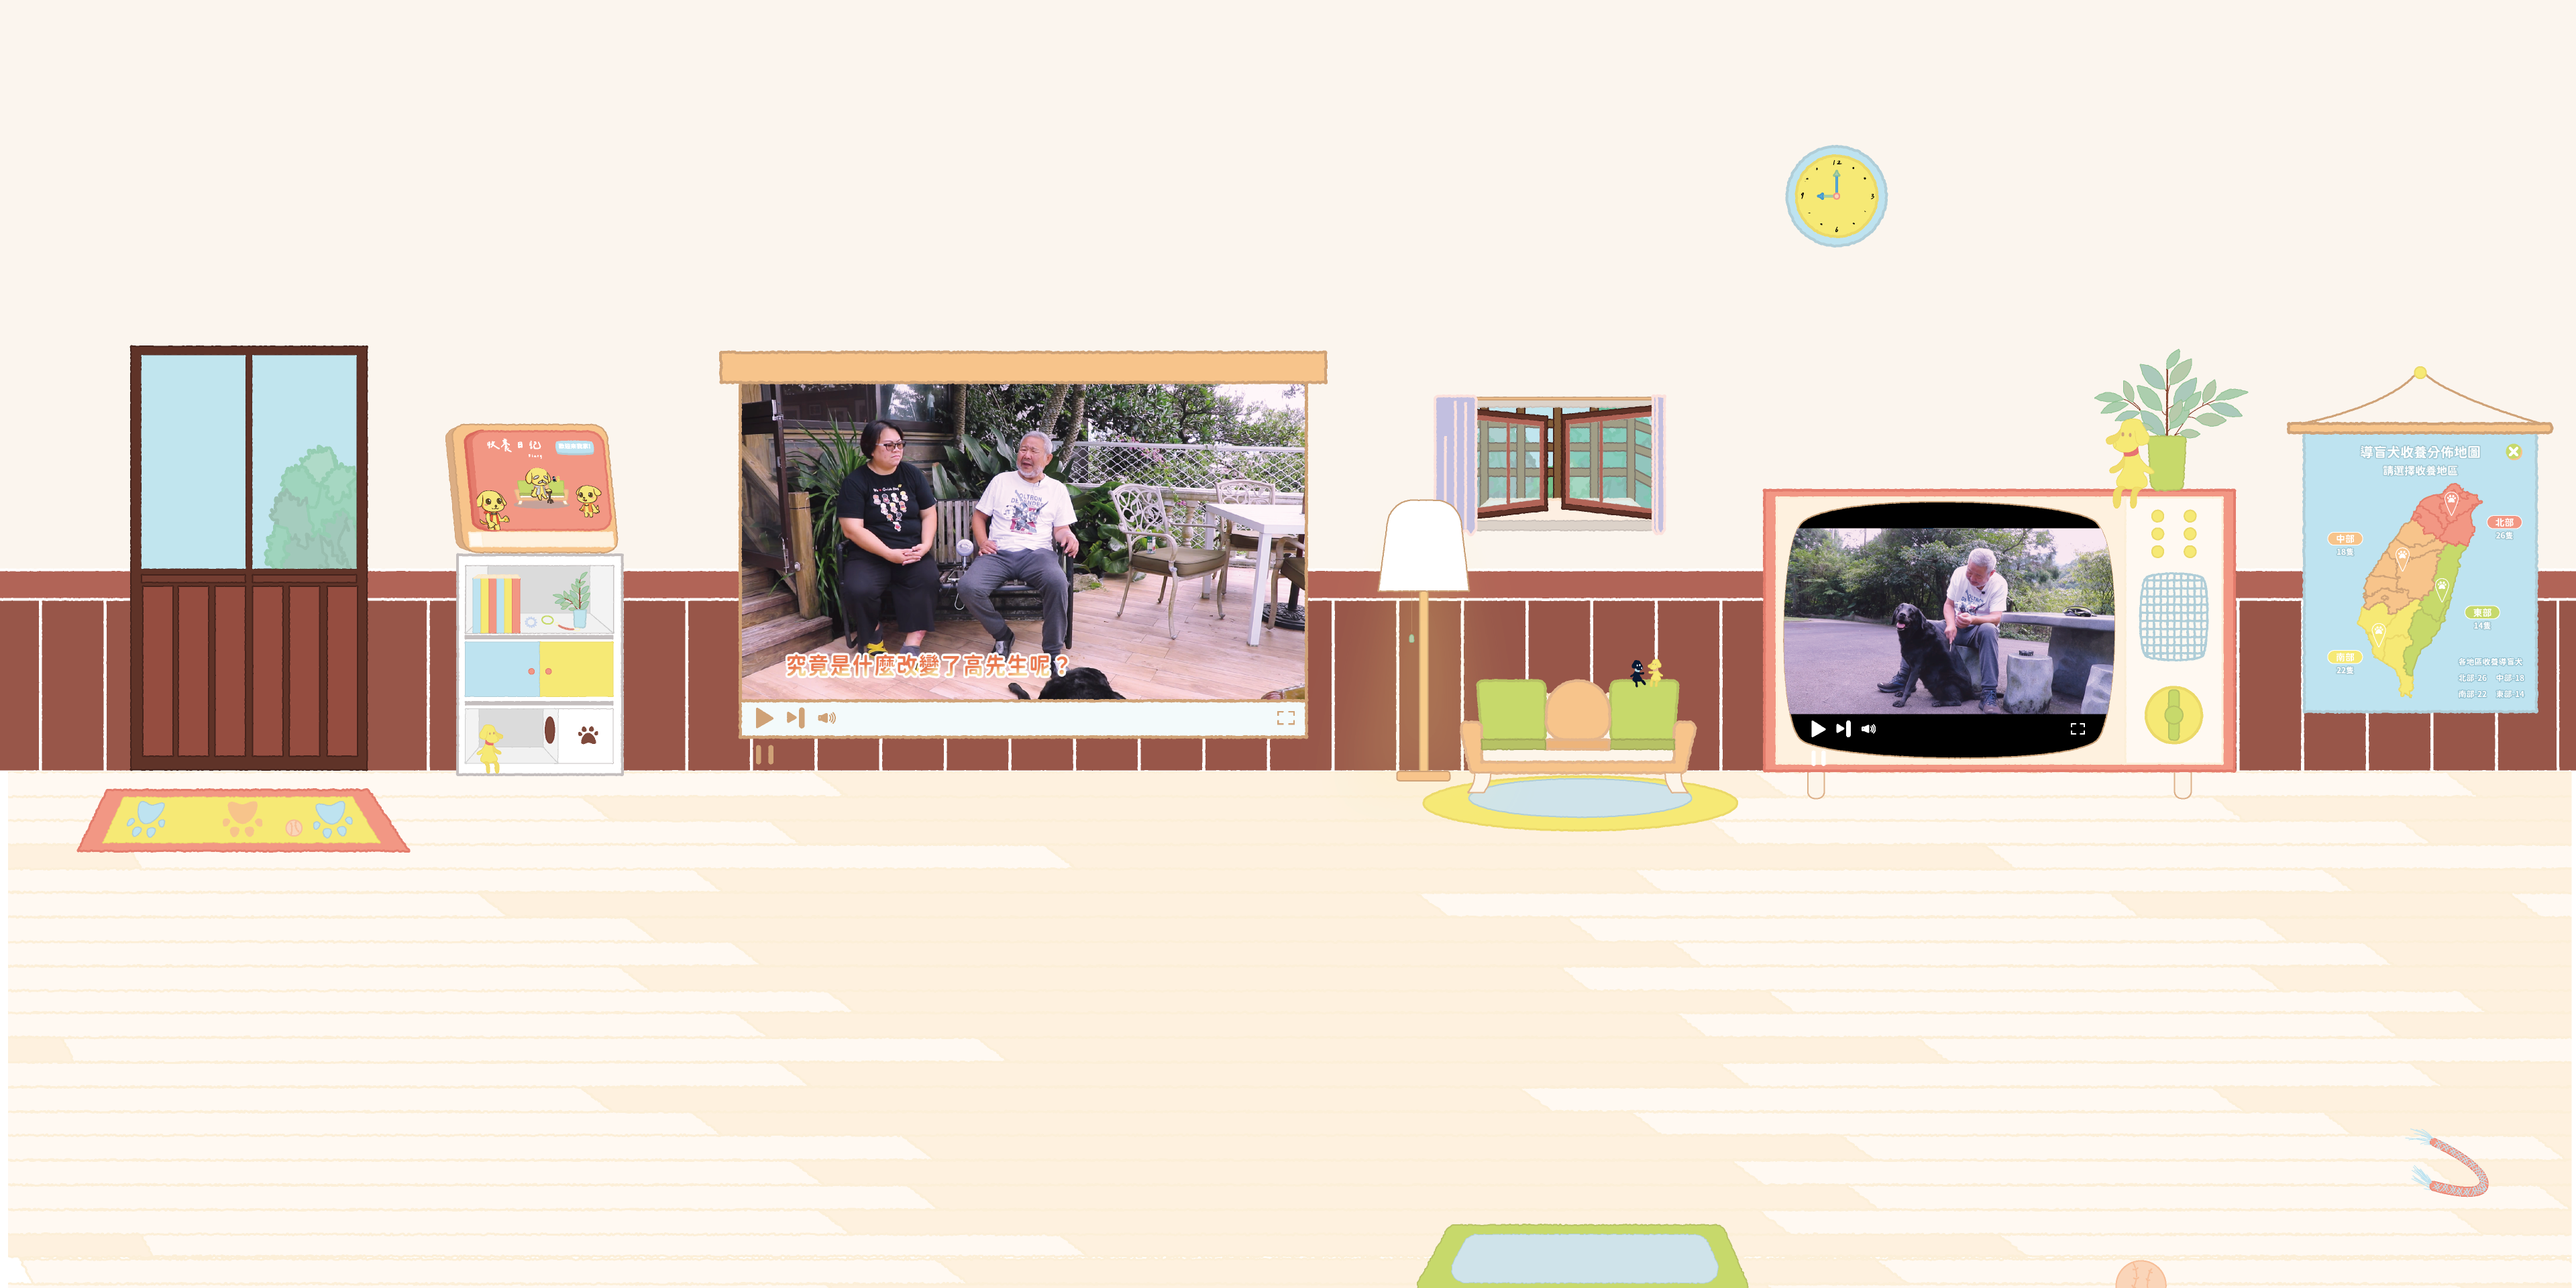
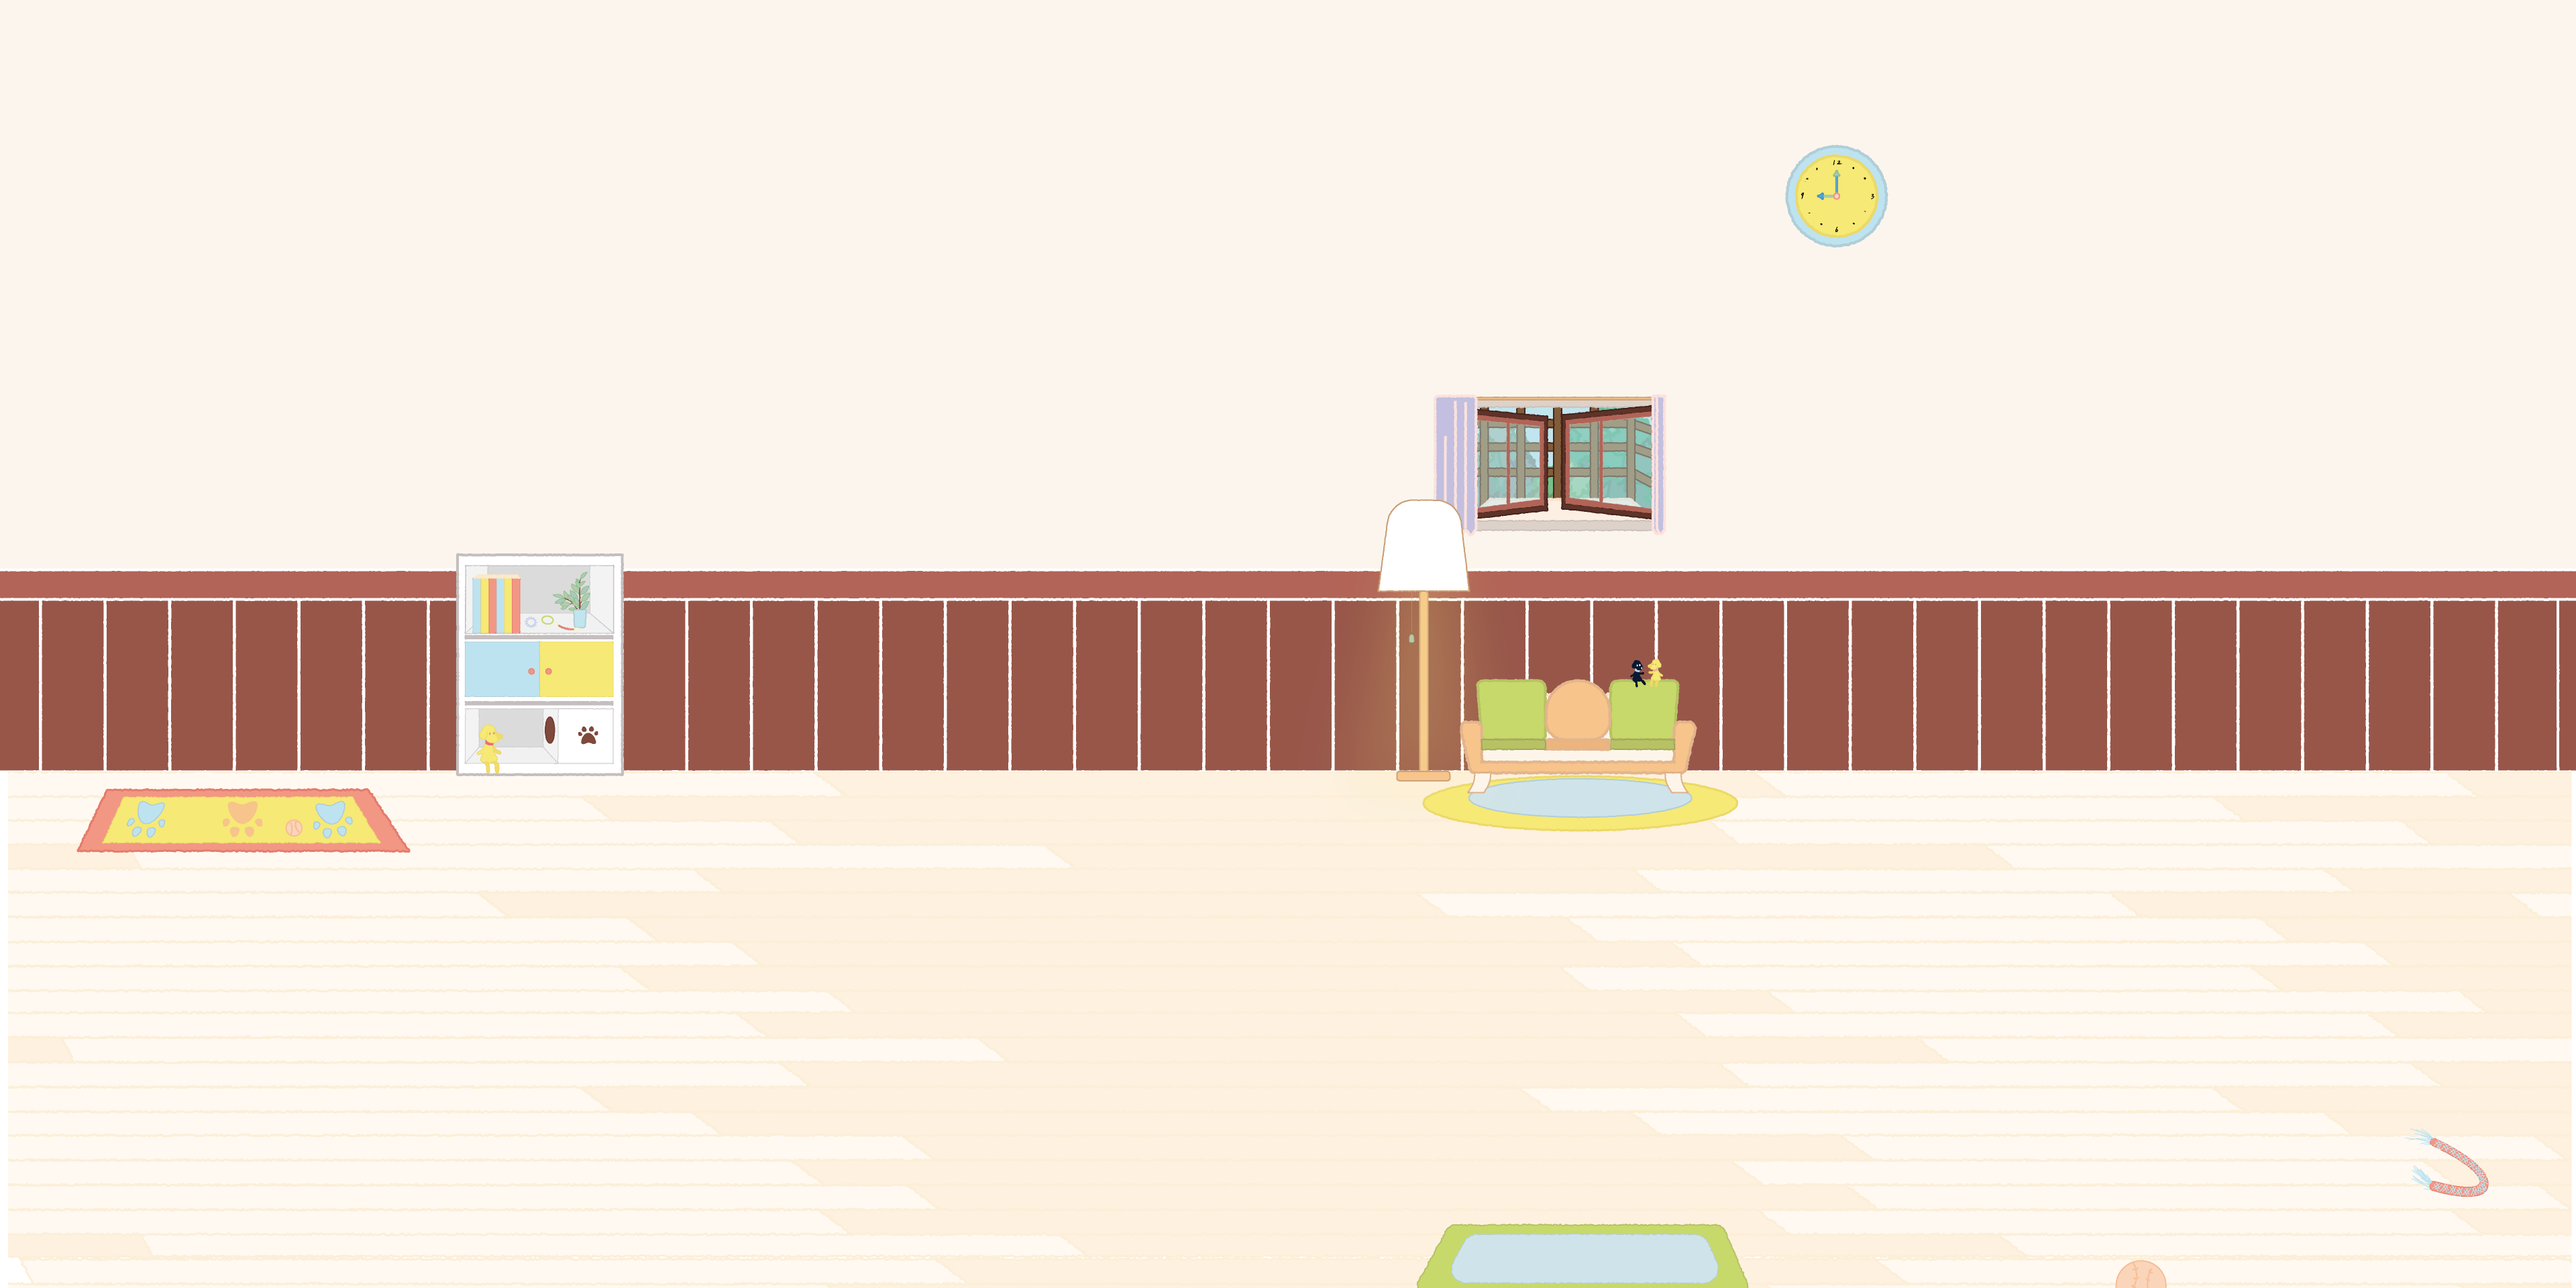
update

Changed region(s): [[0.2812, 0.25, 0.5312, 0.5938], [0.6875, 0.2812, 1.0, 0.625], [0.0312, 0.25, 0.25, 0.625]]

diff --git a/script/ElderlyObject.js b/script/ElderlyObject.js
@@ -4,6 +4,7 @@ import { PixiPlugin } from "gsap/PixiPlugin";
 import { linkObject, PageObject, Background, Player, Door } from './GameObject.js';
 import { ElderlyAction_Story1, ElderlyAction_Story2, ElderlyAction_Story3 } from './ElderlyAction_Story.js';
 import { ElderlyAction_Hair } from './ElderlyAction_Hair.js';
+import { addPointerEvent, createSprite } from './GameFunction.js';
 
 gsap.registerPlugin(PixiPlugin);
 PixiPlugin.registerPIXI(PIXI);
@@ -14,7 +15,7 @@ export default class ElderlyObject extends PageObject {
         this.name = "ElderlyObject";
         this.children = {
             "background": new Background(this.manager, this, "image/building/elderly/bg.png"),
-            "door": new Door(this.manager, this, -0.403, -0.067, "image/building/childhood/door.png"),
+            "door": new Door(this.manager, this, -0.403, -0.067, "image/building/elderly/door.png"),
             "video": new Video(this.manager, this),
             "tv": new Tv(this.manager, this),
             "book": new Book(this.manager, this),
@@ -28,9 +29,9 @@ class Video extends linkObject {
         super(manager, page);
         this.name = "Video";
         this.x = -0.103;
-        this.y = -0.067;
+        this.y = -0.077;
         this.url = "image/building/elderly/video.png";
-        this.zoomIn = 2;
+        this.zoomIn = 1.6;
         this.fadeText = "點擊播放影片";
         this.spriteHeight = 10;
         this.random = Math.floor(Math.random() * 3);
@@ -49,30 +50,82 @@ class Video extends linkObject {
         this.drawVideo();
         this.drawUI();
     }
-    drawVideo() {
-        this.manager.loader.load(this.videoList[this.random],
-            function (loader, resources) {
-                this.video = new PIXI.Sprite(resources[this.videoList[this.random]].texture);
-                this.video.anchor.set(0.5);
-                this.video.scale.set(this.scale);
-                this.videoTexture = this.video.texture.baseTexture;
-                this.videoCrol = this.videoTexture.resource.source;
-                this.videoTexture.autoPlay = false;
-                this.videoTexture.resource.autoPlay = false;
-                this.videoCrol.muted = this.manager.isMute;
-                this.currentTime = this.videoCrol.currentTime;
-                this.container.addChild(this.video);
-                this.container.position.set(0, -2.5);
-                this.container.alpha = 0;
-            }.bind(this));
+    cancelEvent() {
+        let tl = gsap.timeline();
+        tl.to(this.page.container.scale, { duration: 0.5, x: this.scale, y: this.scale });
+        tl.to(this.page.container, { duration: 0.5, x: -this._x / 2, y: 0 }, 0);
+        this.page.isZoomIn = false;
+        this.cancel.remove();
+        //this.videoCrol.pause();
+        this.container.removeChild(this.video, this.ui);
+    }
+    drawVideo(url = this.videoList[this.random]) {
+        this.video = createSprite(url, 0.5, 0.44);
+        this.videoTexture = this.video.texture.baseTexture;
+        this.videoCrol = this.videoTexture.resource.source;
+        this.videoTexture.autoPlay = false;
+        this.videoTexture.resource.autoPlay = false;
+        this.videoCrol.muted = this.manager.isMute;
+        this.currentTime = this.videoCrol.currentTime;
+        this.video.position.set(0, -7.5);
+        //this.video.alpha = 0;
+        this.videoCrol.pause();
+        this.videoCrol.currentTime = 0;
+        this.videoCrol.ontimeupdate = () => {
+            this.currentTime = this.videoCrol.currentTime;
+        };
+        this.container.addChildAt(this.video, 1);
+        this.videoCrol.play();
+        this.video.clickEvent = function () {
+            if (this.videoCrol.paused) { this.videoCrol.play(); this.playButton.texture = PIXI.Texture.from("image/video/pause.png"); }
+            else { this.videoCrol.pause(); this.playButton.texture = PIXI.Texture.from("image/video/play.png"); }
+        }.bind(this);
+        addPointerEvent(this.video);
     }
     drawUI() {
         this.ui = new PIXI.Container();
-        this.frame = PIXI.Sprite.from("image/video/video.png");
-        this.frame.anchor.set(0.5);
-        this.frame.scale.set(this.scale);
-        this.container.addChild(this.frame);
+        this.frame = createSprite("image/video/video.png", 0.5, this.scale);
+        this.playButton = createSprite("image/video/play.png", 0.5, this.scale);
+        this.volumeButton = createSprite("image/video/volume.png", 0.5, this.scale);
+        this.nextButton = createSprite("image/video/next.png", 0.5, this.scale);
+        this.fullButton = createSprite("image/video/full.png", 0.5, this.scale);
 
+        let standard = -385;
+        let h = 260;
+        let space = 42;
+        this.playButton.position.set(standard, h);
+        this.nextButton.position.set(standard + space * 1, h);
+        this.volumeButton.position.set(standard + space * 2, h);
+        this.fullButton.position.set(-standard, h);
+
+        this.playButton.clickEvent = function () {
+            if (this.videoCrol.paused) { this.videoCrol.play(); this.playButton.texture = PIXI.Texture.from("image/video/pause.png"); }
+            else { this.videoCrol.pause(); this.playButton.texture = PIXI.Texture.from("image/video/play.png"); }
+        }.bind(this);
+
+        this.nextButton.clickEvent = function () {
+            if (this.random === 2) { this.random = 0 }
+            else { this.random += 1 }
+            this.container.removeChild(this.video);
+            this.drawVideo();
+        }.bind(this);
+
+        this.volumeButton.clickEvent = function () {
+            if (this.videoCrol.muted) { this.videoCrol.muted = false; this.volumeButton.texture = PIXI.Texture.from("image/video/volume.png"); }
+            else { this.videoCrol.muted = true; this.volumeButton.texture = PIXI.Texture.from("image/video/volume_off.png"); }
+        }.bind(this);
+
+        this.fullButton.clickEvent = function () {
+
+        }.bind(this);
+
+        addPointerEvent(this.playButton);
+        addPointerEvent(this.volumeButton);
+        addPointerEvent(this.nextButton);
+        addPointerEvent(this.fullButton);
+
+        this.ui.addChild(this.frame, this.playButton, this.volumeButton, this.nextButton, this.fullButton);
+        this.container.addChild(this.ui);
     }
 
 }

diff --git a/script/GameObject.js b/script/GameObject.js
@@ -2,7 +2,7 @@ import * as PIXI from "pixi.js";
 import gsap from "gsap";
 import { TextStyle } from "./TextStyle.js";
 import { FilterSet } from "./FilterSet.js";
-import { addPointerEvent } from "./GameFunction.js";
+import { addPointerEvent, createSprite } from "./GameFunction.js";
 import { Cancel } from "./UI.js";
 import { math } from "./math.js";
 import { Page } from "./Data.js";
@@ -16,6 +16,7 @@ export class PageObject {
         this.children = {};
     }
     setup() {
+        this.container.name = this.name;
         return new Promise(function (resolve, _) {
             for (let [_, e] of Object.entries(this.children)) { e.setup(); }
             this.manager.app.stage.addChild(this.container);
@@ -57,6 +58,7 @@ export class GameObject {
     }
     setup() {
         this.draw();
+        this.container.name = this.name;
         this.container.scale.set(this.manager.canvasScale);
         this.manager.addChild(this.container);
     }
@@ -142,7 +144,6 @@ export class linkObject extends GameObject {
             this.text = new PIXI.Text(this.fadeText, this.ts);
             this.text.anchor.set(0.5);
             this.textHeight = this.spriteHeight + 10;
-
             this.container.addChild(this.sprite, this.text);
 
             this.sprite.clickEvent = this.clickEvent.bind(this);
@@ -160,29 +161,39 @@ export class linkObject extends GameObject {
             gsap.to(this.text, { duration: 0.5, y: this.spriteHeight * -1, alpha: 0 });
         }
         else { this.blink.outerStrength = 0; }
-        if (this.cancel) { this.cancel.update(); }
+    }
+    resize() {
+        this.w = this.manager.w;
+        this.h = this.manager.h;
+        this.container.removeChildren();
+        this.draw();
+        this.container.scale.set(this.manager.canvasScale);
     }
     clickEvent() {
         let tl = gsap.timeline();
         tl.to(this.page.container.scale, { duration: 0.5, x: this.zoomIn, y: this.zoomIn });
         tl.to(this.page.container, { duration: 0.5, x: -this._x * this.zoomIn, y: -this._y * this.zoomIn }, 0);
         this.page.isZoomIn = true;
-        this.drawCancel();
+        if (!this.cancel) { this.drawCancel(); }
+        this.cancel.visible = true;
     }
     drawCancel() {
         let ch = this.sprite.height / 2;
         let cw = this.sprite.width / 2;
-        this.cancel = new Cancel(this.manager,
-            this._x + cw + 50, this._y - ch + 60,
-            function () { this.cancelEvent() }.bind(this));
-        this.cancel.setup();
+        this.cancel = createSprite('image/cancel.svg', 0.5, this.scale);
+        this.cancel.position.set(cw + 50, -ch + 60);
+        this.cancel.clickEvent = this.cancelEvent.bind(this);
+        addPointerEvent(this.cancel);
+        this.container.addChild(this.cancel);
+        this.cancel.visible = false;
     }
     cancelEvent() {
         let tl = gsap.timeline();
         tl.to(this.page.container.scale, { duration: 0.5, x: this.scale, y: this.scale });
         tl.to(this.page.container, { duration: 0.5, x: -this._x / 2, y: 0 }, 0);
         this.page.isZoomIn = false;
-        this.cancel.remove();
+        this.cancel.visible = false;
+        this.cancel = undefined;
     }
 }
 export class Player extends GameObject {

diff --git a/script/UI.js b/script/UI.js
@@ -2,7 +2,7 @@ import * as PIXI from 'pixi.js';
 import gsap from "gsap";
 import { PixiPlugin } from "gsap/PixiPlugin";
 import { TextStyle } from './TextStyle.js';
-import { addPointerEvent } from './GameFunction.js';
+import { addPointerEvent, createSprite } from './GameFunction.js';
 import { uiData } from './Data.js';
 
 gsap.registerPlugin(PixiPlugin);
@@ -255,56 +255,5 @@ class Index extends UI {
             this.container.removeChild(this.index);
             this.turn = false;
         }
-    }
-}
-
-export class Cancel {
-    constructor(manager, x, y, clickEvent) {
-        this.manager = manager;
-        this.name = "Cancel";
-        this.container = new PIXI.Container();
-        this.container.zIndex = 100;
-        this.icon = undefined;
-        this.clickEvent = clickEvent;
-        this.scale = 1;
-        this.x = x;
-        this.y = y;
-        this.w = window.innerWidth;
-        this.h = window.innerHeight;
-        this.draw = function () {
-            this.icon = this.drawIcon('image/cancel.svg');
-            this.container.position.set(this.x, this.y);
-            this.container.addChild(this.icon);
-            addPointerEvent(this.icon);
-        }
-    }
-    drawIcon(path, anchor = 0.5) {
-        let icon = PIXI.Sprite.from(path);
-        icon.scale.set(this.scale);
-        icon.anchor.set(anchor);
-        icon.clickEvent = this.clickEvent;
-        return icon;
-    }
-    setup() {
-        this.draw();
-        this.manager.addChild(this.container);
-    }
-    resize() {
-        this.w = window.innerWidth;
-        this.h = window.innerHeight;
-        this.container.removeChildren();
-        this.draw();
-    }
-    update() {
-        if (this.icon.isPointerOver) {
-            gsap.to(this.icon, { duration: 0.5, pixi: { brightness: 0.9 } });
-        }
-        else {
-            gsap.to(this.icon, { duration: 0.5, pixi: { brightness: 1 } });
-        }
-    }
-    remove() {
-        this.container.removeChildren();
-        this.manager.removeChild(this.container);
     }
 }

diff --git a/script/GameFunction.js b/script/GameFunction.js
@@ -9,8 +9,31 @@ export function debounce(f, delay = 250) {
         timer = setTimeout(() => { f.apply(context, args); }, delay)
     }
 }
-export function deepclone(obj) {
-    return JSON.parse(JSON.stringify(obj));
+export function createSprite(url, anchor = { x: 0, y: 0 }, scale = { x: 0, y: 0 }) {
+    let s = PIXI.Sprite.from(url);
+    switch (Object.prototype.toString.call(anchor)) {
+        case "[object Number]":
+            s.anchor.set(anchor);
+            break;
+        case "[object Array]":
+            s.anchor.set(anchor[0], anchor[1]);
+            break;
+        case "[object Object]":
+            s.anchor.set(anchor.x, anchor.y);
+            break;
+    }
+    switch (Object.prototype.toString.call(scale)) {
+        case "[object Number]":
+            s.scale.set(scale);
+            break;
+        case "[object Array]":
+            s.scale.set(scale[0], scale[1]);
+            break;
+        case "[object Object]":
+            s.scale.set(scale.x, scale.y);
+            break;
+    }
+    return s
 }
 export function addPointerEvent(e) {
     e.interactive = true;

diff --git a/script/ResourceLoader.js b/script/ResourceLoader.js
@@ -74,8 +74,8 @@ export default class ResourceLoader {
         });
         //console.log("All files loaded");
     }
-    load(list, onComplete = (loader, resources) => { }) {
+    load(list, onComplete) {
         this.loader.add(list);
-        this.loader.load(onComplete);
+        this.loader.load((loader, resources) => { onComplete(loader, resources) });
     }
 }

diff --git a/script/Manager.js b/script/Manager.js
@@ -172,7 +172,8 @@ const loadList = {
         "image/video/play.png",
         "image/video/pause.png",
         "image/video/next.png",
-        "image/video/sound.png",
+        "image/video/volume.png",
+        "image/video/volume_off.png",
         "image/video/full.png",
         //actionpage
         "image/TGDAlogo.png",
